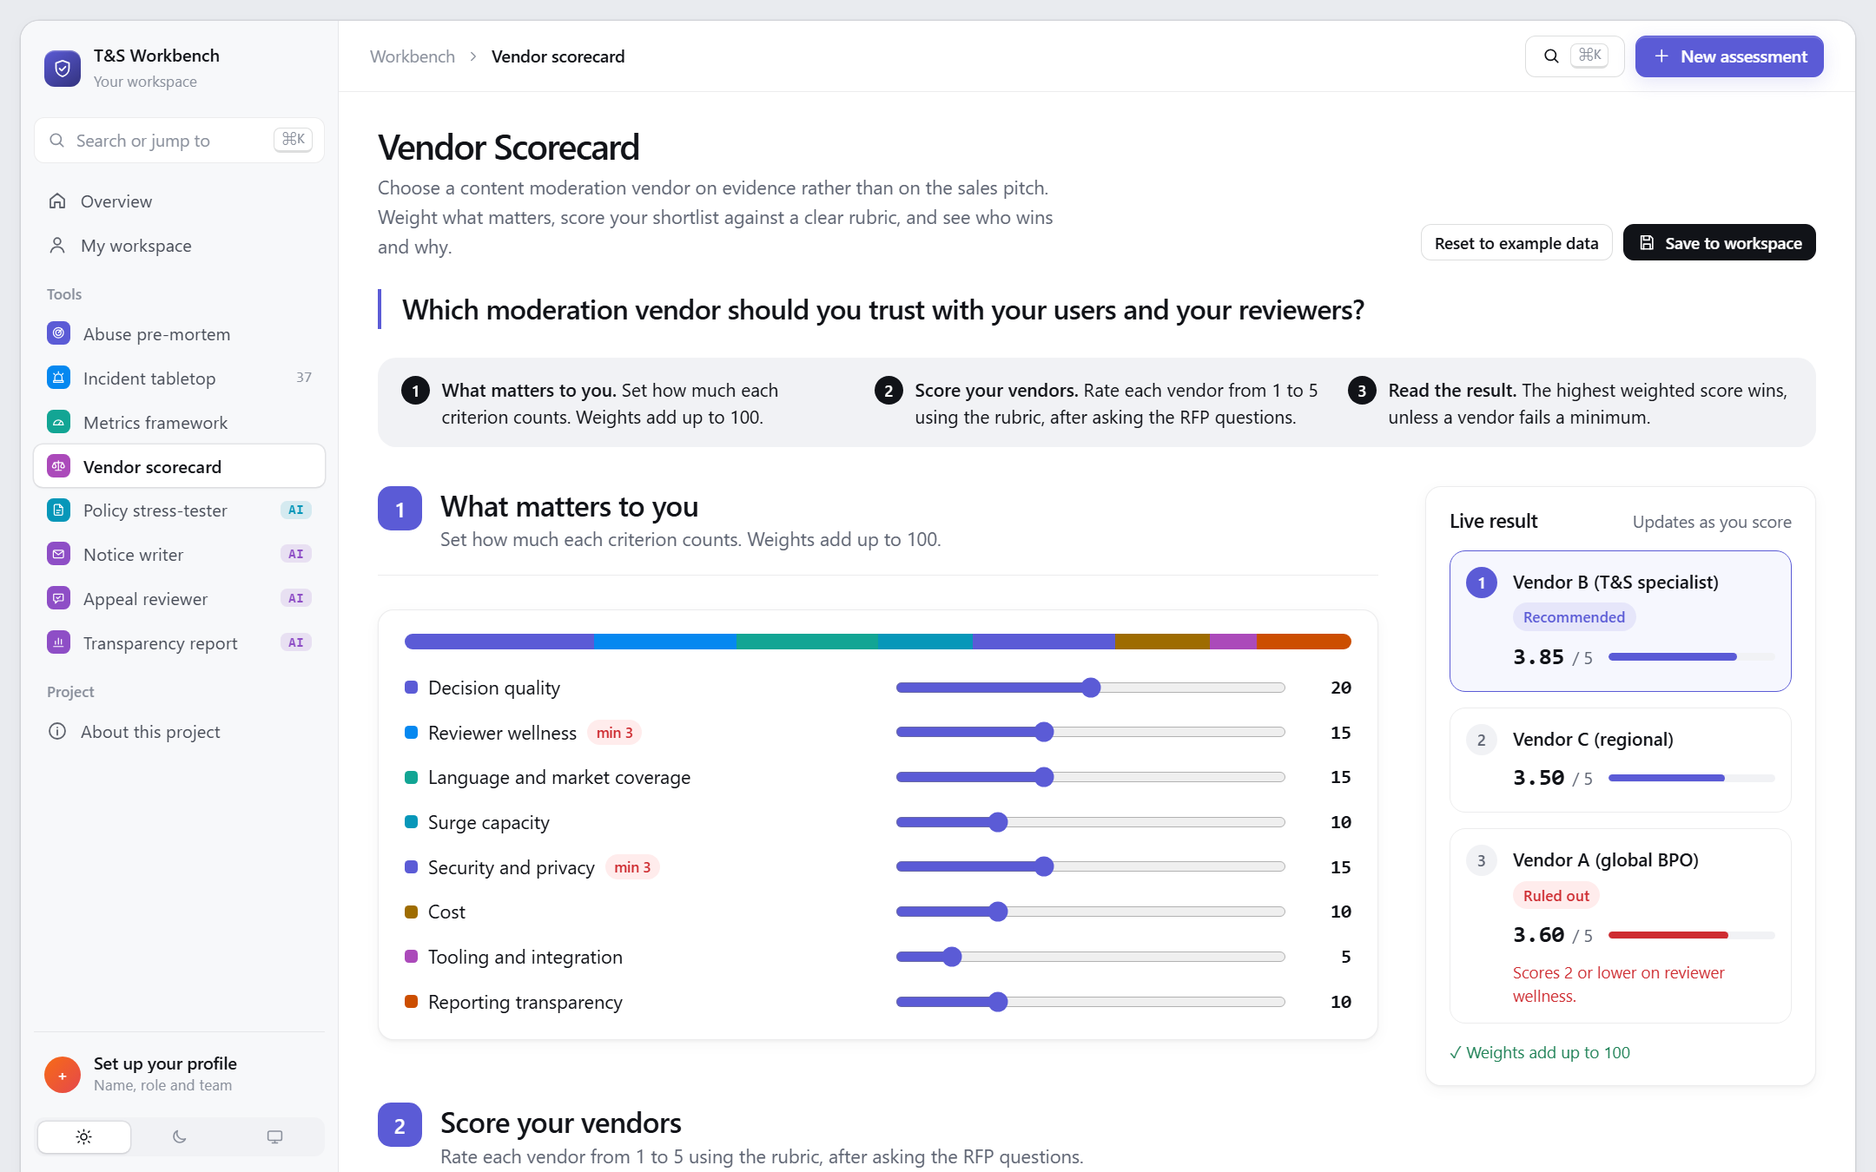
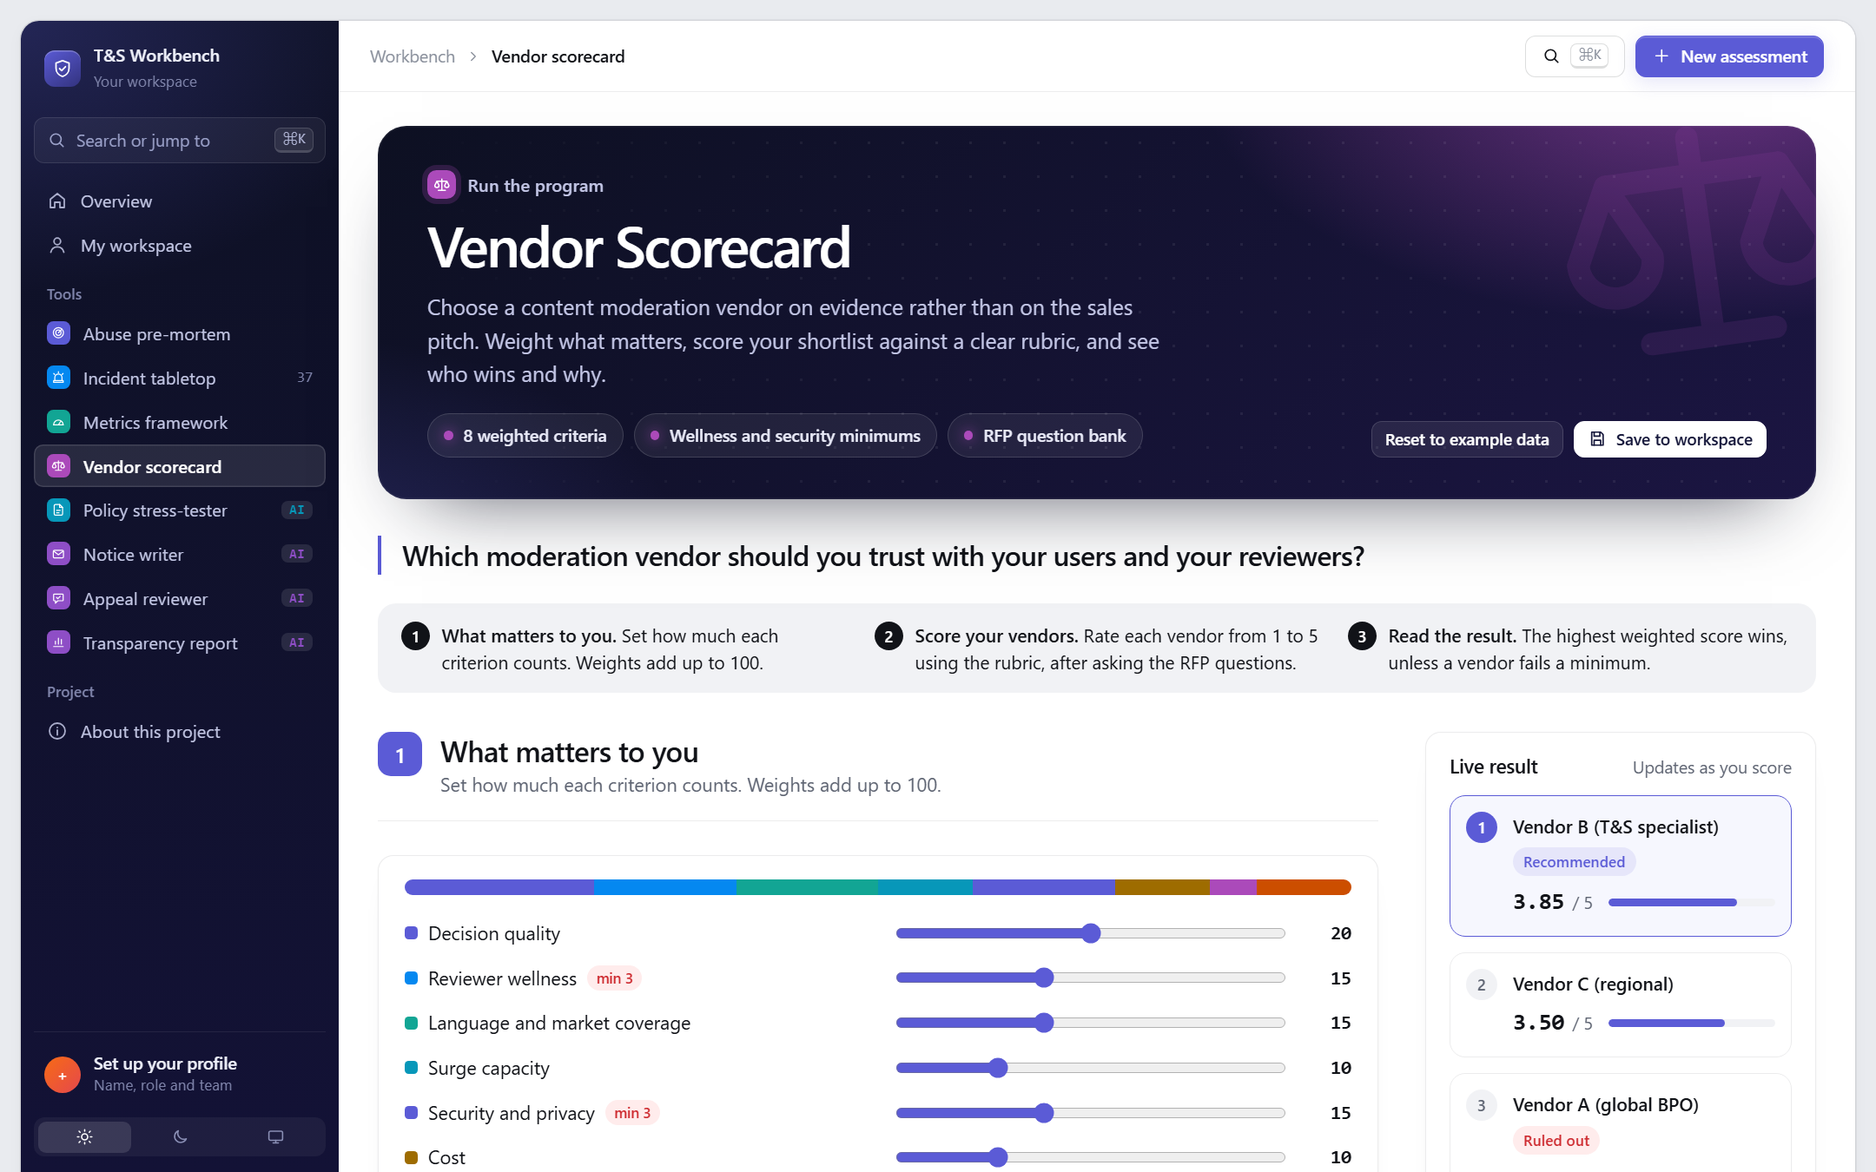
Visual refresh: dark hero headers, dark sidebar and new screenshots

diff --git a/docs/index.html b/docs/index.html
@@ -1859,6 +1859,84 @@ text.mxt-a{fill:var(--crit)}
 /* Policy summary: actions get their own row so the headline never collapses into a narrow column */
 .pol-sum{grid-template-columns:auto minmax(0,1fr)}
 .pol-sumact{grid-column:1/-1;justify-content:flex-start;padding-top:14px;border-top:1px solid var(--line)}
+
+/* ---------- Visual refresh: hero bands, dark sidebar, overview hero (the look of the share card) ---------- */
+body{--tc:var(--accent);--hero-a:#0D1022;--hero-b:#1B1542;--hero-ink:#F3F4FB;--hero-muted:#C3C6E6;--hero-line:rgba(255,255,255,.14)}
+body[data-route="premortem"]{--tc:var(--t-pm)}
+body[data-route="tabletop"]{--tc:var(--t-tt)}
+body[data-route="metrics"]{--tc:var(--t-mx)}
+body[data-route="vendors"]{--tc:var(--t-vd)}
+body[data-route="policy"]{--tc:var(--t-pol)}
+body[data-route="notice"],body[data-route="appeal"],body[data-route="transparency"]{--tc:var(--t-ai)}
+
+/* Tool hero band */
+.pagehead{position:relative;overflow:hidden;isolation:isolate;display:flex;flex-wrap:wrap;align-items:flex-end;justify-content:space-between;gap:18px 28px;
+  margin:0 0 28px;padding:34px 38px 32px;border:0;border-radius:22px;color:var(--hero-ink);
+  background:
+    radial-gradient(560px 300px at 92% -20%, color-mix(in oklab, var(--tc) 60%, transparent), transparent 70%),
+    radial-gradient(420px 260px at -5% 120%, rgba(91,91,214,.28), transparent 70%),
+    linear-gradient(135deg, var(--hero-a) 0%, var(--hero-b) 100%);
+  box-shadow:0 28px 60px -34px rgba(13,16,34,.75), inset 0 0 0 1px rgba(255,255,255,.06)}
+.pagehead::before{content:"";position:absolute;inset:0;z-index:-1;background:radial-gradient(circle, rgba(255,255,255,.07) 1.1px, transparent 1.25px) 0 0/26px 26px;mask-image:linear-gradient(90deg, transparent, #000 35%)}
+.ph-mark{position:absolute;right:-26px;top:-30px;width:230px;height:230px;z-index:-1;color:var(--tc);opacity:.13;transform:rotate(-8deg)}
+.ph-main{min-width:0;max-width:760px}
+.ph-eb{display:inline-flex;align-items:center;gap:9px;font-size:13.5px;font-weight:500;color:var(--hero-muted);margin-bottom:12px}
+.ph-glyph{background:var(--tc);width:22px;height:22px;border-radius:7px;box-shadow:0 0 0 4px color-mix(in oklab, var(--tc) 22%, transparent)}
+.ph-glyph svg{width:13px!important;height:13px!important}
+.pagehead h1{font-size:clamp(30px,4vw,44px);font-weight:600;letter-spacing:-.038em;line-height:1.05;color:#fff;margin:0}
+.pagehead p{color:var(--hero-muted);font-size:16.5px;line-height:1.55;max-width:64ch;margin:12px 0 0}
+.ph-stats{display:flex;flex-wrap:wrap;gap:8px;margin-top:18px}
+.ph-stats span{display:inline-flex;align-items:center;gap:8px;padding:6px 12px;border-radius:99px;font-size:13px;font-weight:500;color:#E8E9F7;background:rgba(255,255,255,.07);border:1px solid var(--hero-line)}
+.ph-stats span::before{content:"";width:7px;height:7px;border-radius:50%;background:var(--tc);box-shadow:0 0 10px color-mix(in oklab, var(--tc) 80%, transparent)}
+.pagehead .headmeta{position:relative;align-items:center}
+.pagehead .headmeta .btn{background:rgba(255,255,255,.08);border-color:var(--hero-line);color:#fff;box-shadow:none}
+.pagehead .headmeta .btn:hover{background:rgba(255,255,255,.15)}
+.pagehead .headmeta .btn.primary{background:#fff;border-color:#fff;color:#14163A}
+.pagehead .headmeta .btn.primary:hover{background:#E9EAFF}
+.pagehead .headmeta .btn svg{color:currentColor}
+.pagehead .toast{color:var(--hero-muted)}
+.pagehead .pill,.pagehead .ai-pill{background:rgba(255,255,255,.1);color:#fff;border:1px solid var(--hero-line)}
+.pagehead .savedtag{color:#9BE3BF}
+
+/* Compact dark bar while reading a metric */
+.mxc{padding:14px 20px;border:0;border-radius:16px;color:var(--hero-ink);margin-bottom:6px;
+  background:radial-gradient(360px 160px at 95% -40%, color-mix(in oklab, var(--tc) 55%, transparent), transparent 70%), linear-gradient(135deg, var(--hero-a), var(--hero-b))}
+.mxc-t{color:#fff}
+.mxc-l:hover .mxc-t{color:#fff;text-decoration:underline;text-underline-offset:3px}
+.mxc-ctx{color:var(--hero-muted)}
+.mxc .btn{background:rgba(255,255,255,.08);border-color:var(--hero-line);color:#fff}
+.mxc .btn.primary{background:#fff;border-color:#fff;color:#14163A}
+
+/* Overview welcome becomes a hero */
+.ov-greet{position:relative;overflow:hidden;isolation:isolate;padding:40px 40px 38px;border-radius:24px;color:var(--hero-ink);gap:10px;
+  background:radial-gradient(600px 320px at 90% -10%, rgba(124,108,255,.42), transparent 70%), linear-gradient(135deg, var(--hero-a), var(--hero-b));
+  box-shadow:0 28px 60px -34px rgba(13,16,34,.75), inset 0 0 0 1px rgba(255,255,255,.06)}
+.ov-greet::before{content:"";position:absolute;inset:0;z-index:-1;background:radial-gradient(circle, rgba(255,255,255,.07) 1.1px, transparent 1.25px) 0 0/26px 26px;mask-image:linear-gradient(90deg, transparent, #000 40%)}
+.ov-greet h1{font-size:clamp(34px,5vw,54px);color:#fff;letter-spacing:-.04em;line-height:1.02}
+.ov-greet p{color:var(--hero-muted);font-size:17px;max-width:62ch}
+
+/* Dark sidebar in both themes: local tokens so only the sidebar changes */
+.side{--ink:#EEF0FA;--side-ink:#C4C8E6;--side-muted:#7F84AA;--muted:#A9ADD0;--faint:#8A8FB5;--hover:rgba(255,255,255,.06);--bg:rgba(255,255,255,.09);
+  --line:rgba(255,255,255,.1);--line-strong:rgba(255,255,255,.2);--sunk:rgba(255,255,255,.05);--side-line:rgba(255,255,255,.08);
+  background:radial-gradient(420px 300px at 0% 0%, rgba(91,91,214,.28), transparent 70%), linear-gradient(180deg,#0E1124 0%,#131236 100%);color:var(--side-ink);border-right:0}
+.side .navlink[aria-current="page"]{background:rgba(255,255,255,.1);color:#fff;box-shadow:inset 0 0 0 1px rgba(255,255,255,.12)}
+.side .sb-search{background:rgba(255,255,255,.05);border-color:rgba(255,255,255,.1);color:#9AA0C8}
+.side .sb-search:hover{border-color:rgba(255,255,255,.2);color:#C4C8E6}
+.side .kbd{background:rgba(255,255,255,.08);border-color:rgba(255,255,255,.14);color:#AEB2D2}
+.side .sb-new{background:rgba(255,255,255,.1)}
+.side .themeseg button[aria-pressed="true"]{background:rgba(255,255,255,.12);color:#fff;box-shadow:none}
+
+/* Slightly richer surfaces */
+.card{box-shadow:0 1px 2px rgba(16,24,40,.04), 0 8px 24px -18px rgba(16,24,40,.18)}
+
+@media (max-width:760px){
+  .pagehead{padding:26px 22px 24px;border-radius:18px;margin-bottom:22px}
+  .pagehead p{font-size:15.5px}
+  .ph-mark{width:160px;height:160px;right:-30px;top:-24px}
+  .ov-greet{padding:28px 22px 26px;border-radius:18px}
+}
+.ov-greet .ph-mark{color:#8B8CFF;opacity:.12;width:260px;height:260px;right:-20px;top:-40px}
+.ov-greet .ph-stats{margin-top:10px}
 </style>
 
 <svg width="0" height="0" style="position:absolute" aria-hidden="true">
@@ -2001,15 +2079,33 @@ function copyText(txt, toastEl){
   catch(e){ done('Copy was blocked in this view'); }
 }
 const view = $('#view');
-const head = (title, desc, crumb, meta='') => `
+// Tool pages open with a hero band. Its icon and key stats come from the current route.
+const HEAD_META = () => {
+  const r = (location.hash || "").slice(1).split("/")[0] || "overview";
+  const ai = ["Runs on your own Claude account", "Nothing stored on a server", "A person makes the final call"];
+  const m = {
+    premortem:["radar", () => [HARMS.length + " abuse risks", Object.keys(SG).length + " safeguards", REGIONS.length + " jurisdictions"]],
+    tabletop:["siren", () => [SCENARIOS.length + " crisis scenarios", "8 company types", "The law behind every call"]],
+    metrics:["gauge", () => [METRICS.length + " metrics", Object.keys(MX_PLATFORMS).length + " platform types", "Starter SQL for each"]],
+    vendors:["scale", () => [CRITERIA.length + " weighted criteria", "Wellness and security minimums", "RFP question bank"]],
+    policy:["doc", () => ai], notice:["mail", () => ai], appeal:["appeal", () => ai], transparency:["chart", () => ai],
+    workspace:["user", () => []], about:["info", () => []]
+  }[r];
+  if(!m) return {icon:"logo", stats:[]};
+  let stats = []; try{ stats = m[1](); }catch(e){}
+  return {icon:m[0], stats};
+};
+const head = (title, desc, crumb, meta='') => { const hm = HEAD_META(); return `
   <div class="pagehead">
-    <div>
-      ${crumb?`<div class="crumb"><a href="#overview">Overview</a> / ${esc(crumb)}</div>`:''}
+    <svg class="ph-mark" aria-hidden="true"><use href="#i-${hm.icon}"/></svg>
+    <div class="ph-main">
+      <div class="ph-eb"><span class="sb-glyph ph-glyph"><svg><use href="#i-${hm.icon}"/></svg></span>${esc(crumb || "T&S Workbench")}</div>
       <h1>${title}</h1>
       <p>${desc}</p>
+      ${hm.stats.length ? `<div class="ph-stats">${hm.stats.map(s => `<span>${esc(s)}</span>`).join("")}</div>` : ""}
     </div>
     ${meta?`<div class="headmeta">${meta}</div>`:''}
-  </div>`;
+  </div>`; };
 
 /* ---------- Theme switch: a per-viewer convenience kept in browser storage ---------- */
 function applyTheme(m){
@@ -7016,6 +7112,7 @@ function openSaved(id){
 }
 function newAssessment(){ pm = Object.assign(blankPM(), {projectId:wsActive()}); store.set("pm3", pm); goRoute("premortem"); }
 function shellUpdate(name){
+  if(document.body && document.body.dataset) document.body.dataset.route = name;
   const here = $("#tb-here"); if(here) here.textContent = ROUTE_LABEL[name] || "";
   const items = Object.values(wsItems()).filter(i=>KINDS[i.kind]).sort((a,b)=>(b.updated||0)-(a.updated||0));
   const cw = $("#sb-cnt-ws"); if(cw) cw.textContent = items.length || "";
@@ -7151,8 +7248,10 @@ function renderOverview(){
 
   view.innerHTML = `<div class="ov">
     <section class="ov-greet rise">
+      <svg class="ph-mark" aria-hidden="true"><use href="#i-logo"/></svg>
       <h1>${hello}${first ? ", " + esc(first) : ""}</h1>
       <p>${sub}</p>
+      <div class="ph-stats"><span>${HARMS.length} abuse risks</span><span>${SCENARIOS.length} crisis scenarios</span><span>${METRICS.length} metrics</span><span>${typeof AI_TOOLS !== "undefined" ? Object.keys(AI_TOOLS).length + 1 : 1} AI assistants</span></div>
     </section>
 
     ${has ? `<section class="ov-hero rise" aria-label="Current assessment">

diff --git a/src/partZ7.css b/src/partZ7.css
@@ -1,0 +1,78 @@
+
+/* ---------- Visual refresh: hero bands, dark sidebar, overview hero (the look of the share card) ---------- */
+body{--tc:var(--accent);--hero-a:#0D1022;--hero-b:#1B1542;--hero-ink:#F3F4FB;--hero-muted:#C3C6E6;--hero-line:rgba(255,255,255,.14)}
+body[data-route="premortem"]{--tc:var(--t-pm)}
+body[data-route="tabletop"]{--tc:var(--t-tt)}
+body[data-route="metrics"]{--tc:var(--t-mx)}
+body[data-route="vendors"]{--tc:var(--t-vd)}
+body[data-route="policy"]{--tc:var(--t-pol)}
+body[data-route="notice"],body[data-route="appeal"],body[data-route="transparency"]{--tc:var(--t-ai)}
+
+/* Tool hero band */
+.pagehead{position:relative;overflow:hidden;isolation:isolate;display:flex;flex-wrap:wrap;align-items:flex-end;justify-content:space-between;gap:18px 28px;
+  margin:0 0 28px;padding:34px 38px 32px;border:0;border-radius:22px;color:var(--hero-ink);
+  background:
+    radial-gradient(560px 300px at 92% -20%, color-mix(in oklab, var(--tc) 60%, transparent), transparent 70%),
+    radial-gradient(420px 260px at -5% 120%, rgba(91,91,214,.28), transparent 70%),
+    linear-gradient(135deg, var(--hero-a) 0%, var(--hero-b) 100%);
+  box-shadow:0 28px 60px -34px rgba(13,16,34,.75), inset 0 0 0 1px rgba(255,255,255,.06)}
+.pagehead::before{content:"";position:absolute;inset:0;z-index:-1;background:radial-gradient(circle, rgba(255,255,255,.07) 1.1px, transparent 1.25px) 0 0/26px 26px;mask-image:linear-gradient(90deg, transparent, #000 35%)}
+.ph-mark{position:absolute;right:-26px;top:-30px;width:230px;height:230px;z-index:-1;color:var(--tc);opacity:.13;transform:rotate(-8deg)}
+.ph-main{min-width:0;max-width:760px}
+.ph-eb{display:inline-flex;align-items:center;gap:9px;font-size:13.5px;font-weight:500;color:var(--hero-muted);margin-bottom:12px}
+.ph-glyph{background:var(--tc);width:22px;height:22px;border-radius:7px;box-shadow:0 0 0 4px color-mix(in oklab, var(--tc) 22%, transparent)}
+.ph-glyph svg{width:13px!important;height:13px!important}
+.pagehead h1{font-size:clamp(30px,4vw,44px);font-weight:600;letter-spacing:-.038em;line-height:1.05;color:#fff;margin:0}
+.pagehead p{color:var(--hero-muted);font-size:16.5px;line-height:1.55;max-width:64ch;margin:12px 0 0}
+.ph-stats{display:flex;flex-wrap:wrap;gap:8px;margin-top:18px}
+.ph-stats span{display:inline-flex;align-items:center;gap:8px;padding:6px 12px;border-radius:99px;font-size:13px;font-weight:500;color:#E8E9F7;background:rgba(255,255,255,.07);border:1px solid var(--hero-line)}
+.ph-stats span::before{content:"";width:7px;height:7px;border-radius:50%;background:var(--tc);box-shadow:0 0 10px color-mix(in oklab, var(--tc) 80%, transparent)}
+.pagehead .headmeta{position:relative;align-items:center}
+.pagehead .headmeta .btn{background:rgba(255,255,255,.08);border-color:var(--hero-line);color:#fff;box-shadow:none}
+.pagehead .headmeta .btn:hover{background:rgba(255,255,255,.15)}
+.pagehead .headmeta .btn.primary{background:#fff;border-color:#fff;color:#14163A}
+.pagehead .headmeta .btn.primary:hover{background:#E9EAFF}
+.pagehead .headmeta .btn svg{color:currentColor}
+.pagehead .toast{color:var(--hero-muted)}
+.pagehead .pill,.pagehead .ai-pill{background:rgba(255,255,255,.1);color:#fff;border:1px solid var(--hero-line)}
+.pagehead .savedtag{color:#9BE3BF}
+
+/* Compact dark bar while reading a metric */
+.mxc{padding:14px 20px;border:0;border-radius:16px;color:var(--hero-ink);margin-bottom:6px;
+  background:radial-gradient(360px 160px at 95% -40%, color-mix(in oklab, var(--tc) 55%, transparent), transparent 70%), linear-gradient(135deg, var(--hero-a), var(--hero-b))}
+.mxc-t{color:#fff}
+.mxc-l:hover .mxc-t{color:#fff;text-decoration:underline;text-underline-offset:3px}
+.mxc-ctx{color:var(--hero-muted)}
+.mxc .btn{background:rgba(255,255,255,.08);border-color:var(--hero-line);color:#fff}
+.mxc .btn.primary{background:#fff;border-color:#fff;color:#14163A}
+
+/* Overview welcome becomes a hero */
+.ov-greet{position:relative;overflow:hidden;isolation:isolate;padding:40px 40px 38px;border-radius:24px;color:var(--hero-ink);gap:10px;
+  background:radial-gradient(600px 320px at 90% -10%, rgba(124,108,255,.42), transparent 70%), linear-gradient(135deg, var(--hero-a), var(--hero-b));
+  box-shadow:0 28px 60px -34px rgba(13,16,34,.75), inset 0 0 0 1px rgba(255,255,255,.06)}
+.ov-greet::before{content:"";position:absolute;inset:0;z-index:-1;background:radial-gradient(circle, rgba(255,255,255,.07) 1.1px, transparent 1.25px) 0 0/26px 26px;mask-image:linear-gradient(90deg, transparent, #000 40%)}
+.ov-greet h1{font-size:clamp(34px,5vw,54px);color:#fff;letter-spacing:-.04em;line-height:1.02}
+.ov-greet p{color:var(--hero-muted);font-size:17px;max-width:62ch}
+
+/* Dark sidebar in both themes: local tokens so only the sidebar changes */
+.side{--ink:#EEF0FA;--side-ink:#C4C8E6;--side-muted:#7F84AA;--muted:#A9ADD0;--faint:#8A8FB5;--hover:rgba(255,255,255,.06);--bg:rgba(255,255,255,.09);
+  --line:rgba(255,255,255,.1);--line-strong:rgba(255,255,255,.2);--sunk:rgba(255,255,255,.05);--side-line:rgba(255,255,255,.08);
+  background:radial-gradient(420px 300px at 0% 0%, rgba(91,91,214,.28), transparent 70%), linear-gradient(180deg,#0E1124 0%,#131236 100%);color:var(--side-ink);border-right:0}
+.side .navlink[aria-current="page"]{background:rgba(255,255,255,.1);color:#fff;box-shadow:inset 0 0 0 1px rgba(255,255,255,.12)}
+.side .sb-search{background:rgba(255,255,255,.05);border-color:rgba(255,255,255,.1);color:#9AA0C8}
+.side .sb-search:hover{border-color:rgba(255,255,255,.2);color:#C4C8E6}
+.side .kbd{background:rgba(255,255,255,.08);border-color:rgba(255,255,255,.14);color:#AEB2D2}
+.side .sb-new{background:rgba(255,255,255,.1)}
+.side .themeseg button[aria-pressed="true"]{background:rgba(255,255,255,.12);color:#fff;box-shadow:none}
+
+/* Slightly richer surfaces */
+.card{box-shadow:0 1px 2px rgba(16,24,40,.04), 0 8px 24px -18px rgba(16,24,40,.18)}
+
+@media (max-width:760px){
+  .pagehead{padding:26px 22px 24px;border-radius:18px;margin-bottom:22px}
+  .pagehead p{font-size:15.5px}
+  .ph-mark{width:160px;height:160px;right:-30px;top:-24px}
+  .ov-greet{padding:28px 22px 26px;border-radius:18px}
+}
+.ov-greet .ph-mark{color:#8B8CFF;opacity:.12;width:260px;height:260px;right:-20px;top:-40px}
+.ov-greet .ph-stats{margin-top:10px}

diff --git a/src/partC3.html b/src/partC3.html
@@ -62,12 +62,30 @@ function copyText(txt, toastEl){
   catch(e){ done('Copy was blocked in this view'); }
 }
 const view = $('#view');
-const head = (title, desc, crumb, meta='') => `
+// Tool pages open with a hero band. Its icon and key stats come from the current route.
+const HEAD_META = () => {
+  const r = (location.hash || "").slice(1).split("/")[0] || "overview";
+  const ai = ["Runs on your own Claude account", "Nothing stored on a server", "A person makes the final call"];
+  const m = {
+    premortem:["radar", () => [HARMS.length + " abuse risks", Object.keys(SG).length + " safeguards", REGIONS.length + " jurisdictions"]],
+    tabletop:["siren", () => [SCENARIOS.length + " crisis scenarios", "8 company types", "The law behind every call"]],
+    metrics:["gauge", () => [METRICS.length + " metrics", Object.keys(MX_PLATFORMS).length + " platform types", "Starter SQL for each"]],
+    vendors:["scale", () => [CRITERIA.length + " weighted criteria", "Wellness and security minimums", "RFP question bank"]],
+    policy:["doc", () => ai], notice:["mail", () => ai], appeal:["appeal", () => ai], transparency:["chart", () => ai],
+    workspace:["user", () => []], about:["info", () => []]
+  }[r];
+  if(!m) return {icon:"logo", stats:[]};
+  let stats = []; try{ stats = m[1](); }catch(e){}
+  return {icon:m[0], stats};
+};
+const head = (title, desc, crumb, meta='') => { const hm = HEAD_META(); return `
   <div class="pagehead">
-    <div>
-      ${crumb?`<div class="crumb"><a href="#overview">Overview</a> / ${esc(crumb)}</div>`:''}
+    <svg class="ph-mark" aria-hidden="true"><use href="#i-${hm.icon}"/></svg>
+    <div class="ph-main">
+      <div class="ph-eb"><span class="sb-glyph ph-glyph"><svg><use href="#i-${hm.icon}"/></svg></span>${esc(crumb || "T&S Workbench")}</div>
       <h1>${title}</h1>
       <p>${desc}</p>
+      ${hm.stats.length ? `<div class="ph-stats">${hm.stats.map(s => `<span>${esc(s)}</span>`).join("")}</div>` : ""}
     </div>
     ${meta?`<div class="headmeta">${meta}</div>`:''}
-  </div>`;
+  </div>`; };

diff --git a/src/build-ws.js b/src/build-ws.js
@@ -210,7 +210,7 @@ console.log("v8 assembled");
      `<div class="rephead"><div class="rephead-b">\n      <div class="row" style="justify-content:space-between;align-items:flex-end"><div><span class="rep-kicker"><span class="sb-glyph" style="background:var(--t-pm)"><svg><use href="#i-radar"/></svg></span>Abuse pre-mortem report</span><h2 class="rep-title">`],
     [`<div class="section-title" style="margin-top:28px"><h2>The detail</h2>`, `<div class="section-title rep-detail"><h2>The detail</h2>`]
   ], "partF3 report header");
-  const css9 = [A9, rd("partB.css"), rd("partB2.css"), rd("partB3.css"), rd("partB4.css"), rd("partB5.css")].join("") + ttCss + rd("partZ.css") + rd("partZ2.css") + rd("partZ3.css") + rd("partZ4.css") + rd("partZ5.css") + rd("partZ6.css");
+  const css9 = [A9, rd("partB.css"), rd("partB2.css"), rd("partB3.css"), rd("partB4.css"), rd("partB5.css")].join("") + ttCss + rd("partZ.css") + rd("partZ2.css") + rd("partZ3.css") + rd("partZ4.css") + rd("partZ5.css") + rd("partZ6.css") + rd("partZ7.css");
   const body9 = [I, C9, rd("partT.js"), rd("partD.js"), rd("partE1.js"), rd("partE2.js"), rd("partF1.js"), F2, rd("partW1.js"), L, F3_9, G2, W9, rd("partNav.js"), rd("partH4.js"), rd("partH2.js"), rd("partAbout.js"), rd("partPol.js"), rd("partPol2.js"), rd("partAI.js"), R9].join("");
   fs.writeFileSync(path.join(D, "_F3_9.js"), F3_9);
   const STANDALONE_BUILD = true;

diff --git a/src/partH4.js b/src/partH4.js
@@ -64,8 +64,10 @@ function renderOverview(){
 
   view.innerHTML = `<div class="ov">
     <section class="ov-greet rise">
+      <svg class="ph-mark" aria-hidden="true"><use href="#i-logo"/></svg>
       <h1>${hello}${first ? ", " + esc(first) : ""}</h1>
       <p>${sub}</p>
+      <div class="ph-stats"><span>${HARMS.length} abuse risks</span><span>${SCENARIOS.length} crisis scenarios</span><span>${METRICS.length} metrics</span><span>${typeof AI_TOOLS !== "undefined" ? Object.keys(AI_TOOLS).length + 1 : 1} AI assistants</span></div>
     </section>
 
     ${has ? `<section class="ov-hero rise" aria-label="Current assessment">

diff --git a/src/partNav.js b/src/partNav.js
@@ -21,6 +21,7 @@ function openSaved(id){
 }
 function newAssessment(){ pm = Object.assign(blankPM(), {projectId:wsActive()}); store.set("pm3", pm); goRoute("premortem"); }
 function shellUpdate(name){
+  if(document.body && document.body.dataset) document.body.dataset.route = name;
   const here = $("#tb-here"); if(here) here.textContent = ROUTE_LABEL[name] || "";
   const items = Object.values(wsItems()).filter(i=>KINDS[i.kind]).sort((a,b)=>(b.updated||0)-(a.updated||0));
   const cw = $("#sb-cnt-ws"); if(cw) cw.textContent = items.length || "";
